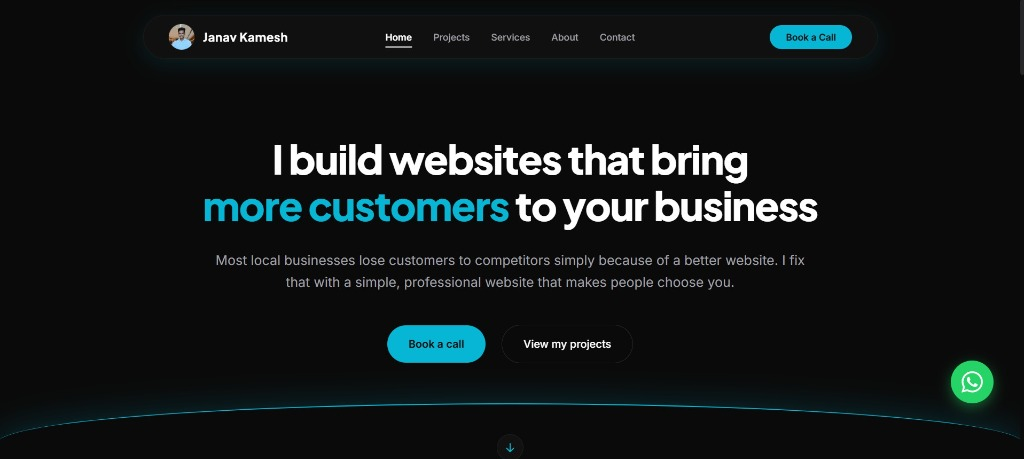
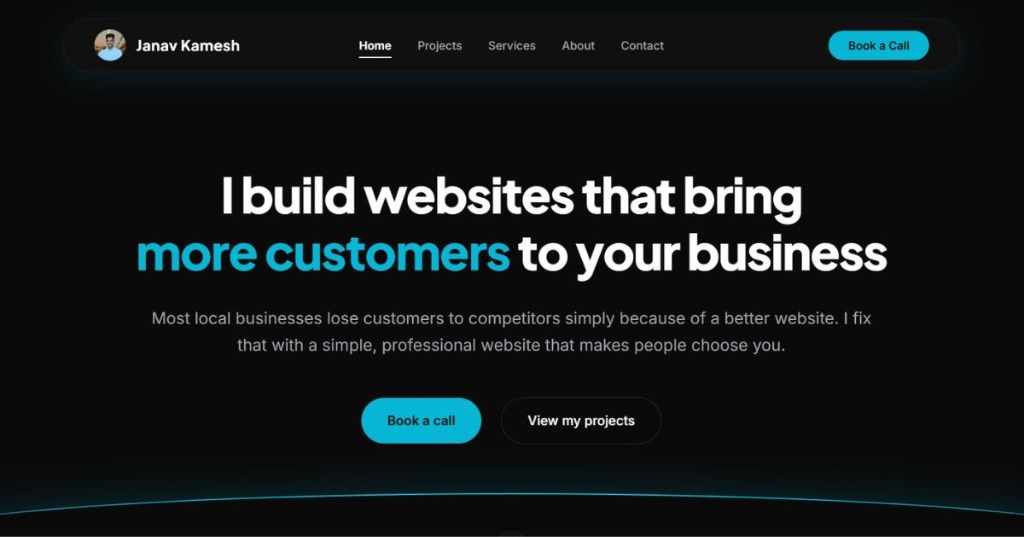
Add dynamic sitemap and robots.txt for SEO

diff --git a/src/app/sitemap.ts b/src/app/sitemap.ts
@@ -1,0 +1,12 @@
+import { MetadataRoute } from "next";
+
+export default function sitemap(): MetadataRoute.Sitemap {
+  return [
+    {
+      url: "https://janavkamesh.com",
+      lastModified: new Date(),
+      changeFrequency: "monthly",
+      priority: 1.0,
+    },
+  ];
+}

diff --git a/src/app/robots.ts b/src/app/robots.ts
@@ -1,0 +1,11 @@
+import { MetadataRoute } from "next";
+
+export default function robots(): MetadataRoute.Robots {
+  return {
+    rules: {
+      userAgent: "*",
+      allow: "/",
+    },
+    sitemap: "https://janavkamesh.com/sitemap.xml",
+  };
+}
